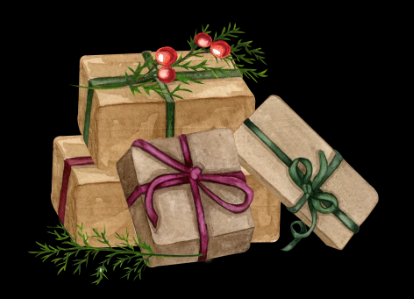
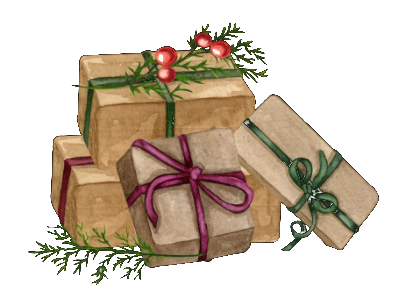
Quitar fondos negros, pegar el pino a la nieve y poner los fuegos detrás del botón.

diff --git a/index.html b/index.html
@@ -94,11 +94,8 @@
     .mid {
       width: min(640px, 100%);
       margin-top: clamp(18px, 3vh, 36px);
-      display: grid;
-      grid-template-columns: 1fr auto;
-      gap: 12px;
-      align-items: center;
-      text-align: left;
+      display: block;
+      text-align: center;
     }
     .ubi {
       margin: 0;
@@ -108,6 +105,7 @@
       letter-spacing: 0.02em;
     }
     .actions {
+      position: relative;
       width: min(680px, 100%);
       margin-top: clamp(16px, 2.5vh, 28px);
       display: flex;
@@ -115,6 +113,17 @@
       justify-content: center;
       gap: 14px 22px;
     }
+    .fireworks {
+      position: absolute;
+      left: 74%;
+      top: 42%;
+      transform: translate(-50%, -72%);
+      width: min(220px, 48vw);
+      height: auto;
+      z-index: 0;
+      pointer-events: none;
+    }
+    .actions .btn { position: relative; z-index: 1; }
     .btn {
       display: inline-flex;
       align-items: center;
@@ -166,7 +175,7 @@
     .tree {
       position: absolute;
       right: clamp(12px, 8vw, 120px);
-      bottom: 22%;
+      bottom: 0;
       width: clamp(160px, 28vw, 280px);
       height: auto;
       z-index: 1;
@@ -228,10 +237,10 @@
         AV. SUFRAGIO EFECTIVO #40.<br />
         COL. CENTRO
       </p>
-      <img src="fuegos.png" alt="" width="150" height="130" style="width:min(170px,42vw);height:auto" />
     </div>
 
     <div class="actions">
+      <img class="fireworks" src="fuegos.png" alt="" />
       <a class="btn" target="_blank" rel="noopener" href="https://maps.app.goo.gl/tQ787sFnSDhXbyth7">
         <svg width="18" height="18" viewBox="0 0 24 24" fill="#e23b3b" aria-hidden="true"><path d="M12 2a7 7 0 0 0-7 7c0 5.25 7 13 7 13s7-7.75 7-13a7 7 0 0 0-7-7zm0 9.5A2.5 2.5 0 1 1 12 6a2.5 2.5 0 0 1 0 5.5z"/></svg>
         UBICACIÓN
